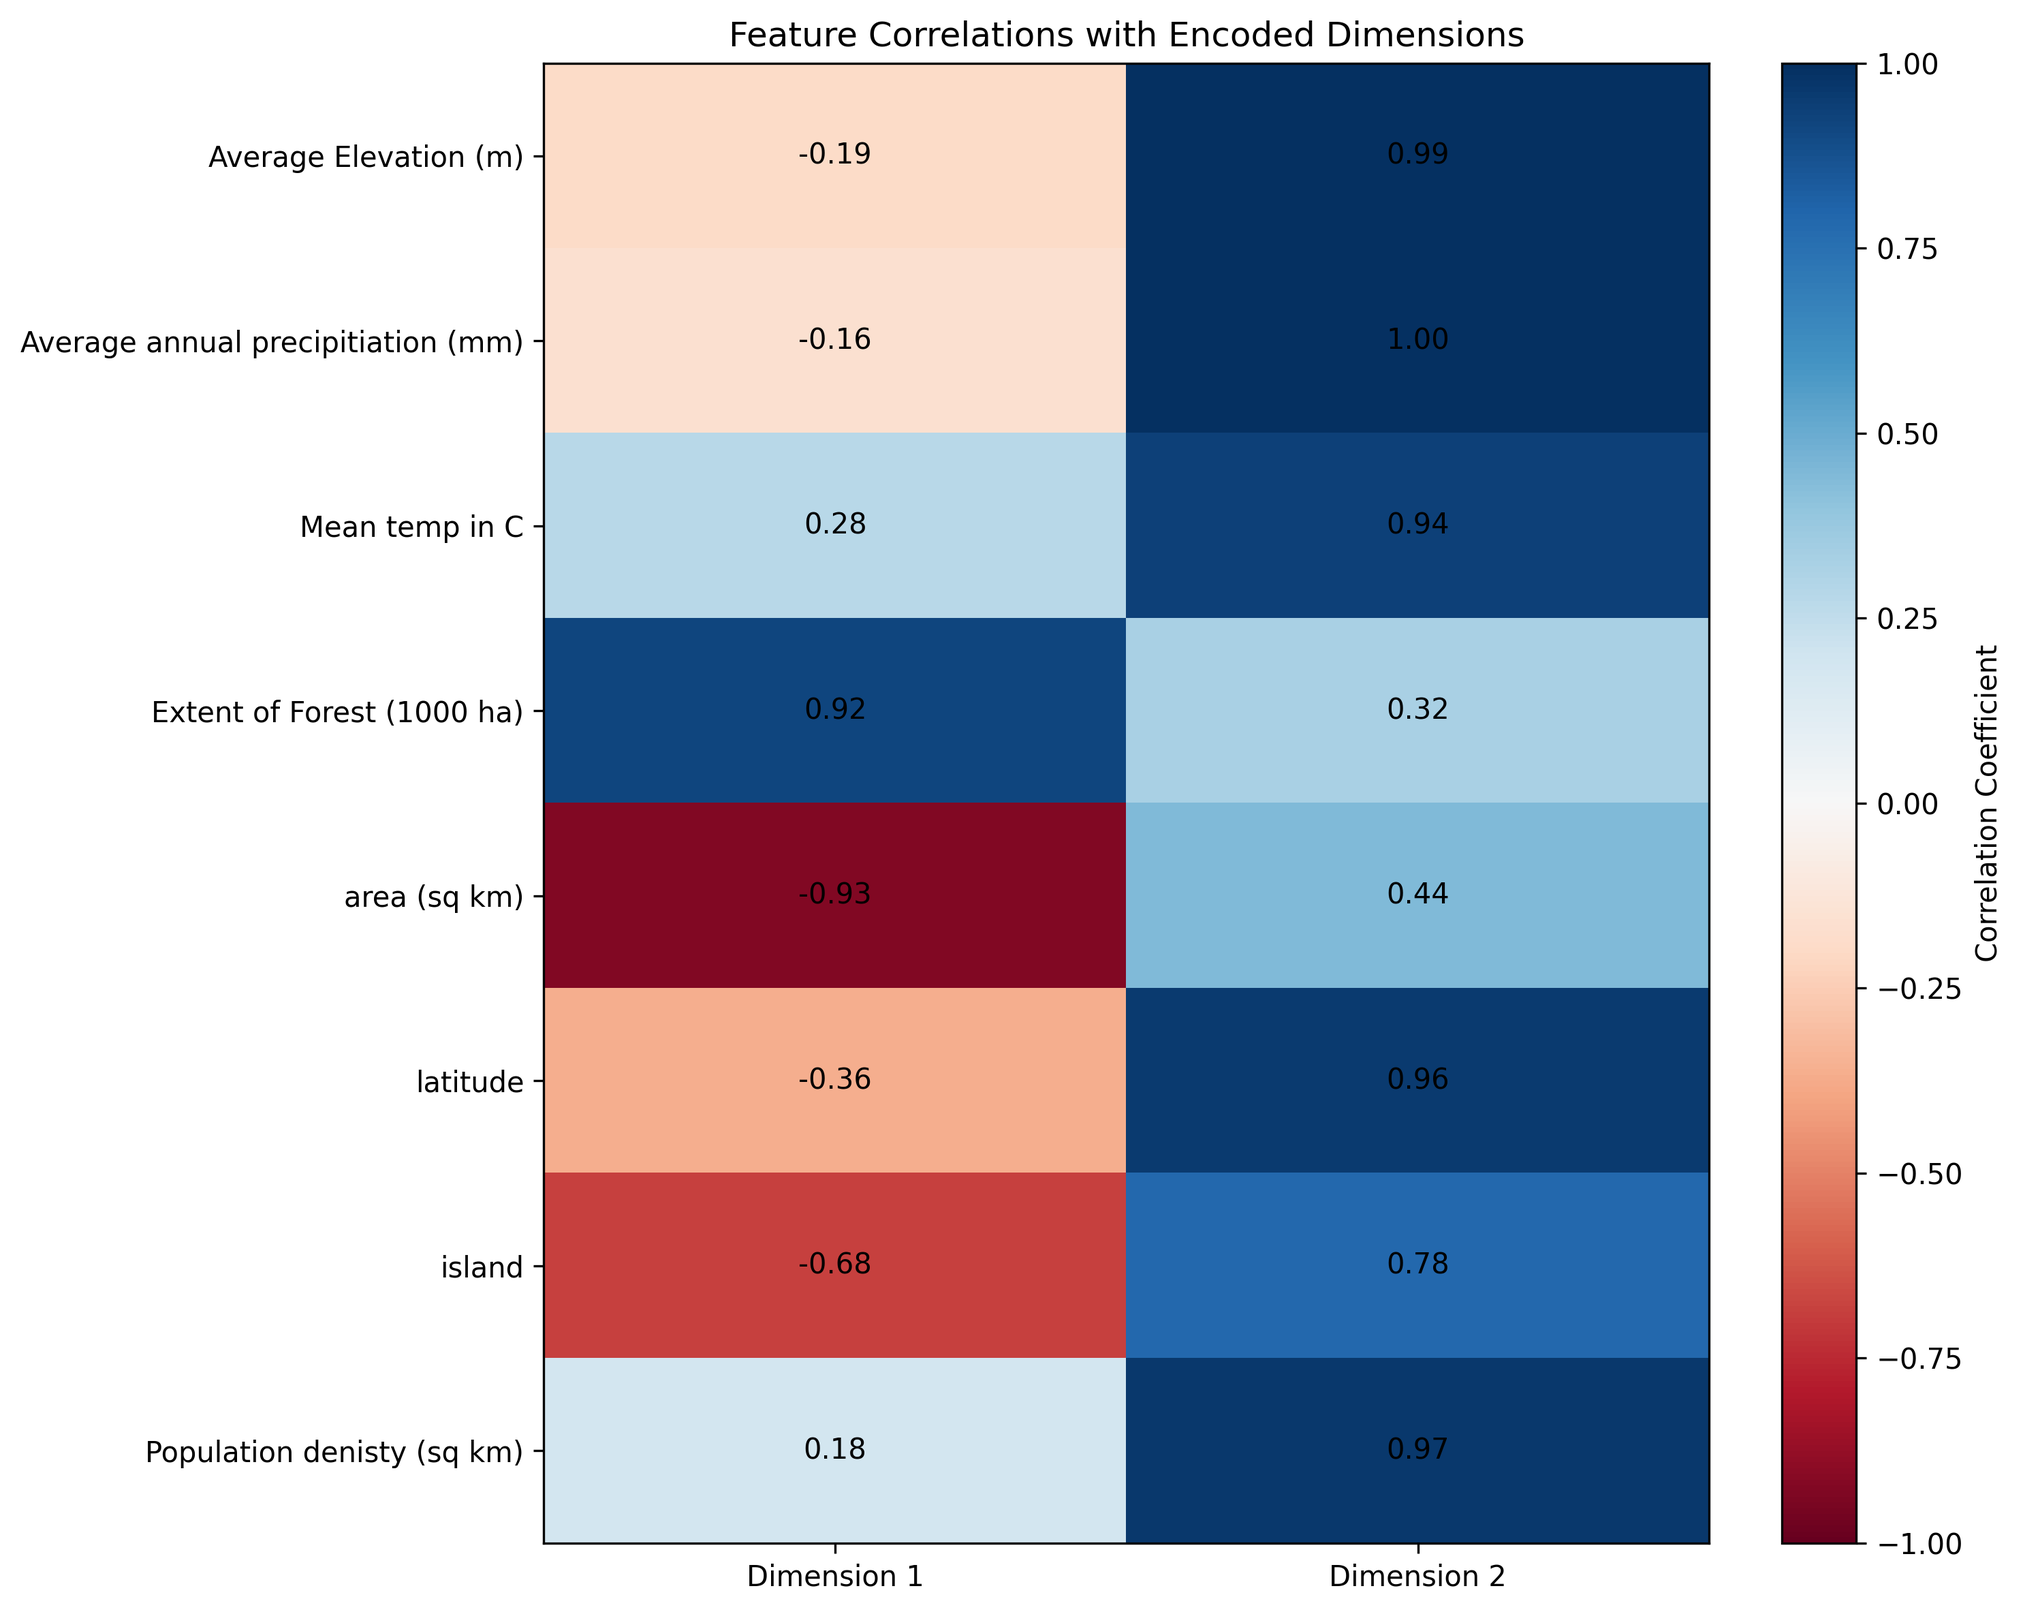
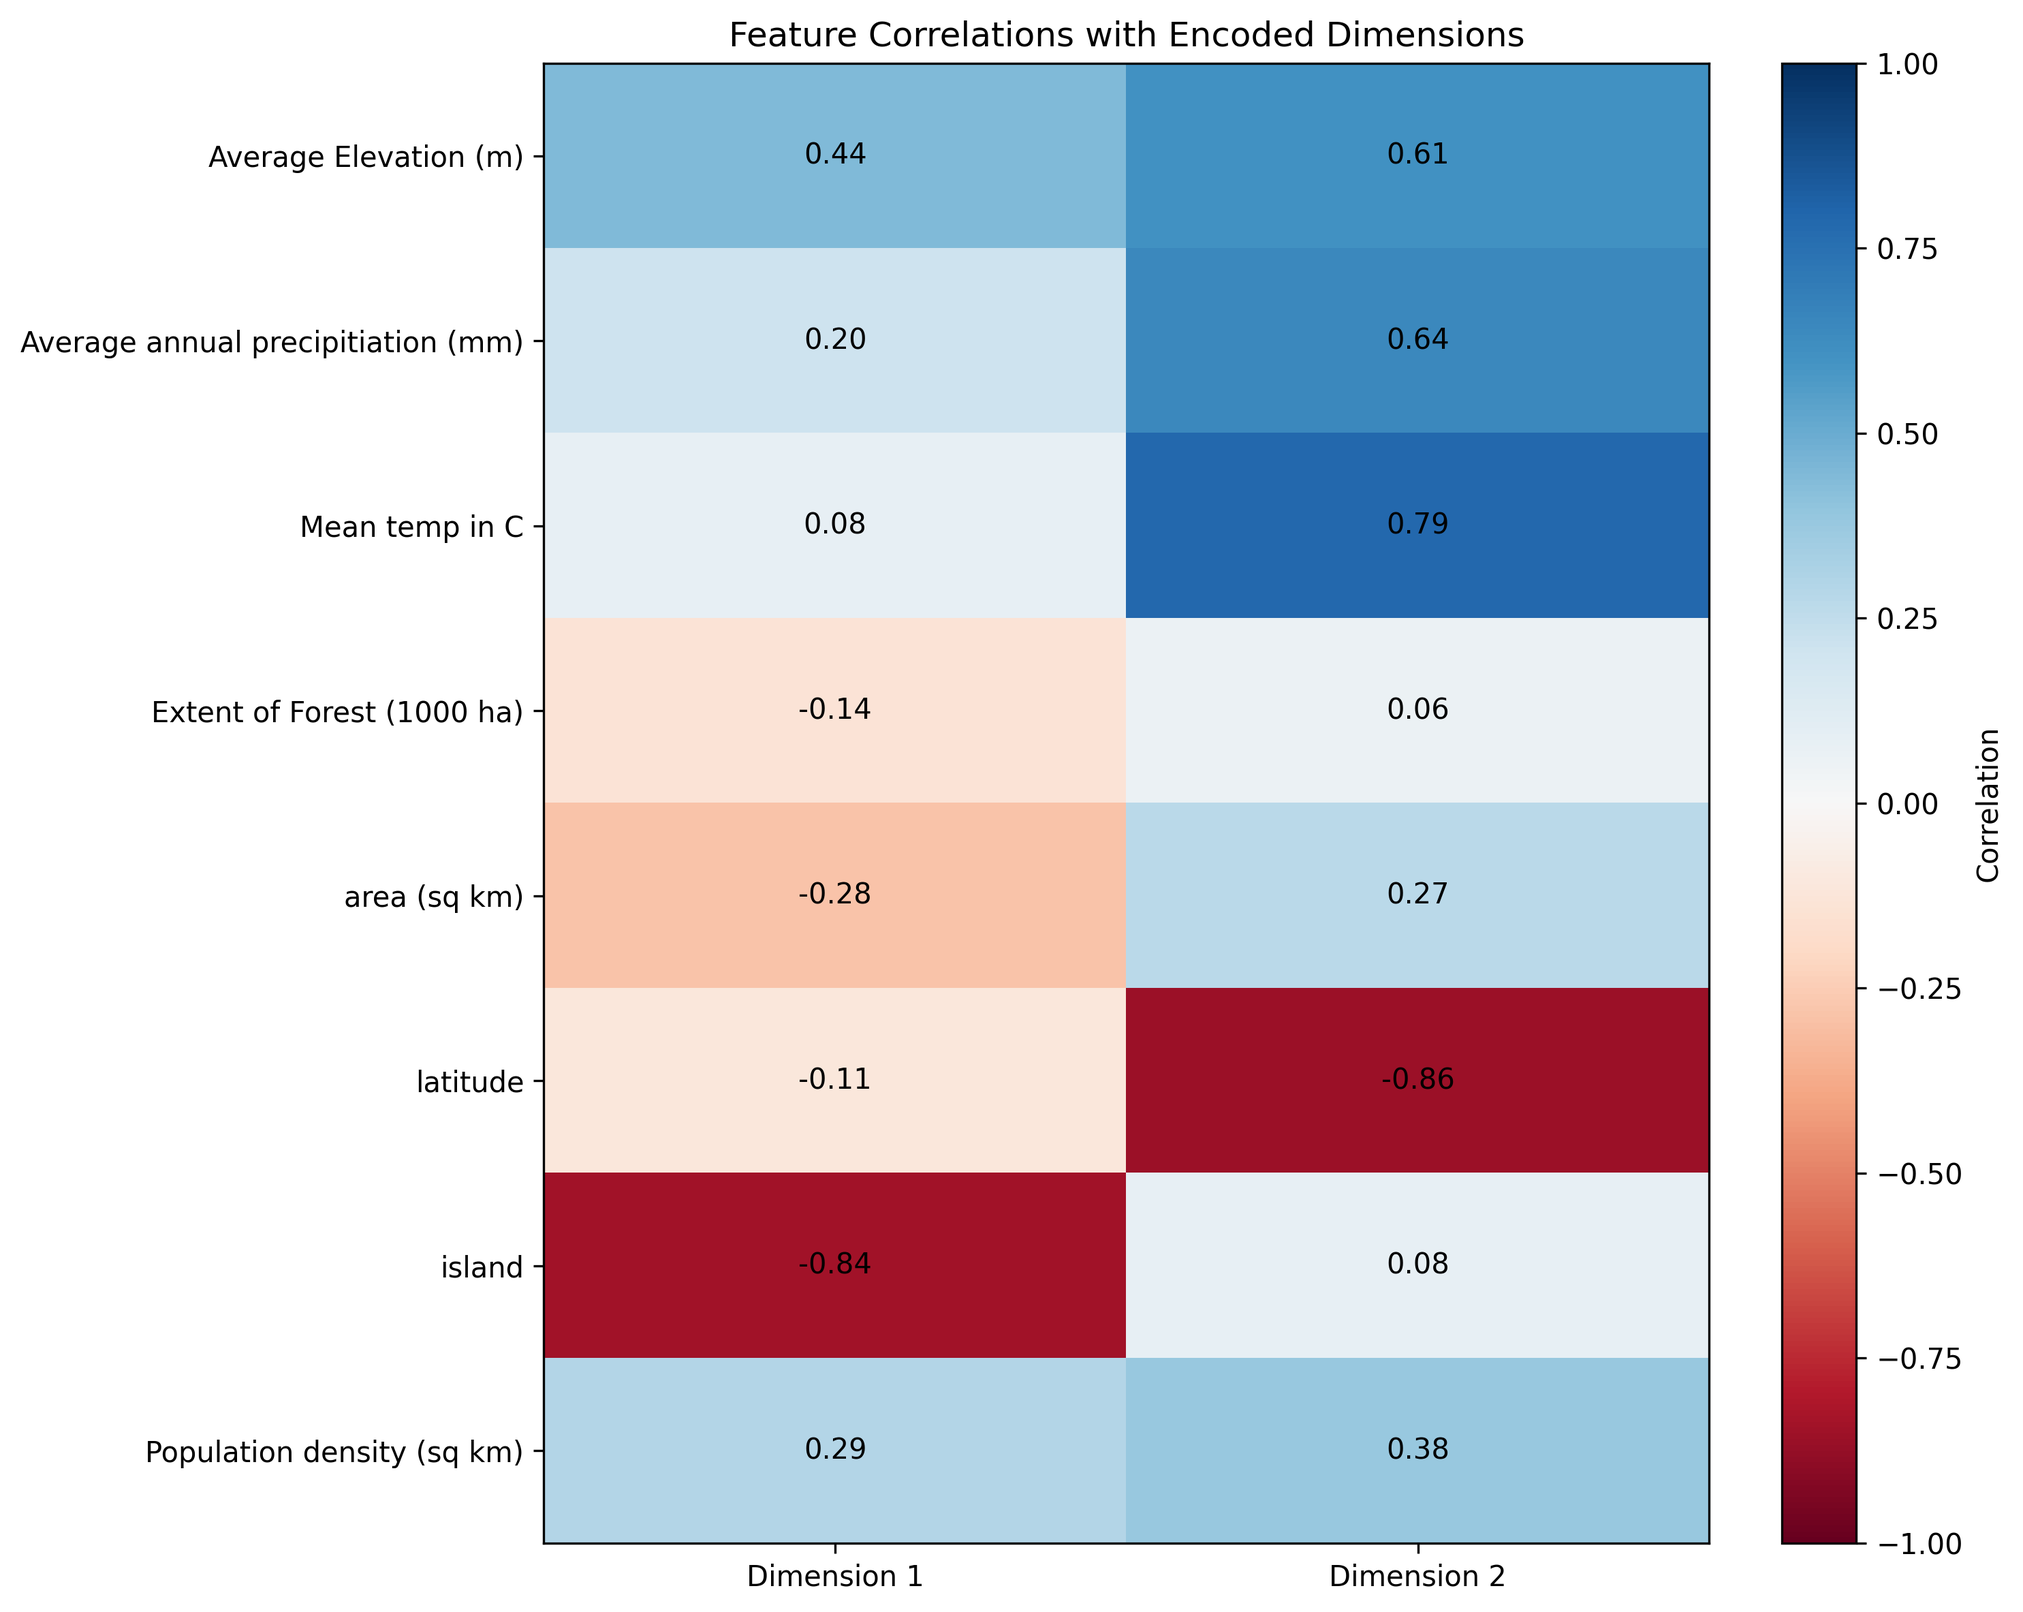
Final commit

diff --git a/visualisation script.py b/visualisation script.py
@@ -1,190 +1,181 @@
-import matplotlib.pyplot as plt
-import numpy as np
 import pickle
-import pandas as pd
+import numpy as np
+import matplotlib.pyplot as plt
 
-def load_data(filepath='autoencoder_results.pkl'):
-    """Load the autoencoder results and verify data structure."""
-    print("Loading data from pickle file...")
+
+def load_and_verify_data(filepath='autoencoder_results.pkl'):
+    """Load data and print key information for verification."""
     with open(filepath, 'rb') as f:
         data = pickle.load(f)
     
-    # Verify expected keys are present
-    expected_keys = ['history', 'features', 'encoded_features', 
-                    'reconstructed_data', 'species_richness']
-    missing_keys = [key for key in expected_keys if key not in data]
-    if missing_keys:
-        raise KeyError(f"Missing expected keys: {missing_keys}")
+    # Print data structure for verification
+    print("\nData structure verification:")
+    print(f"Number of features: {len(data['features'])}")
+    print(f"Encoded features shape: {data['encoded_features'].shape}")
+    print(f"Features available: {data['features']}")
     
-    print("Data loaded successfully!")
     return data
 
-def create_visualizations(data):
-    """Create comprehensive visualizations using minimal dependencies."""
-    plt.style.use('default')
+def create_correlation_matrix(data):
+    """Generate correlation matrix between original features and encoded dimensions."""
+    # Initialize correlation matrix
+    correlations = np.zeros((len(data['features']), 2))
     
-    # 1. Training Loss Evolution
-    plt.figure(figsize=(10, 6))
-    epochs = range(1, len(data['history']) + 1)
-    plt.plot(epochs, data['history'], 'b-', linewidth=2, label='Training Loss')
-    
-    # Add trend line
-    z = np.polyfit(epochs, data['history'], 1)
-    p = np.poly1d(z)
-    plt.plot(epochs, p(epochs), "r--", alpha=0.8, 
-             label=f'Trend (slope: {z[0]:.4f})')
-    
-    plt.title('Autoencoder Training Progress', fontsize=12)
-    plt.xlabel('Epoch', fontsize=10)
-    plt.ylabel('Loss', fontsize=10)
-    plt.grid(True, linestyle='--', alpha=0.7)
-    plt.legend(fontsize=9)
-    plt.tight_layout()
-    plt.savefig('loss_evolution.png', dpi=300, bbox_inches='tight')
-    plt.close()
-
-   # Replace the existing 2D visualization section with this:
-
-    # 3. Integrated 2D Visualization
-    plt.figure(figsize=(12, 8))
-    
-    # Create base scatter plot (always works with species richness)
-    scatter = plt.scatter(data['encoded_features'][:, 0], 
-                         data['encoded_features'][:, 1],
-                         c=data['species_richness'],
-                         cmap='viridis',
-                         alpha=0.7)
-    
-    plt.colorbar(scatter, label='Species Richness')
-    
-    # Add population density encoding if available
-    density_cols = [col for col in data['features'] if 'density' in col.lower()]
-    if density_cols:
-        # Update point sizes based on population density
-        pop_density_idx = data['features'].index(density_cols[0])
-        pop_density = data['reconstructed_data'][:, pop_density_idx]
-        plt.scatter(data['encoded_features'][:, 0], 
-                   data['encoded_features'][:, 1],
-                   c=data['species_richness'],
-                   s=np.log1p(pop_density) * 100,
-                   cmap='viridis',
-                   alpha=0.7)
+    # Calculate correlations for each feature with both encoded dimensions
+    for i, feature in enumerate(data['features']):
+        original_feature = data['analysis_df'][feature].values
+        correlations[i, 0] = np.corrcoef(original_feature, data['encoded_features'][:, 0])[0, 1]
+        correlations[i, 1] = np.corrcoef(original_feature, data['encoded_features'][:, 1])[0, 1]
         
-        # Add annotation for highest density
-        max_density_idx = np.argmax(pop_density)
-        plt.annotate('Highest Population Density',
-                    xy=(data['encoded_features'][max_density_idx, 0],
-                        data['encoded_features'][max_density_idx, 1]),
-                    xytext=(30, 30),
-                    textcoords='offset points',
-                    fontsize=9,
-                    arrowprops=dict(arrowstyle='->',
-                                   connectionstyle='arc3,rad=0.2'))
+        # Print correlations for verification
+        print(f"\n{feature}:")
+        print(f"  Dimension 1: {correlations[i, 0]:.4f}")
+        print(f"  Dimension 2: {correlations[i, 1]:.4f}")
     
-    # Always add highest species richness annotation
-    max_richness_idx = np.argmax(data['species_richness'])
-    plt.annotate('Highest Species Richness',
-                xy=(data['encoded_features'][max_richness_idx, 0],
-                    data['encoded_features'][max_richness_idx, 1]),
-                xytext=(-30, -30),
-                textcoords='offset points',
-                fontsize=9,
-                arrowprops=dict(arrowstyle='->',
-                               connectionstyle='arc3,rad=-0.2'))
-    
-    plt.xlabel('First Encoded Dimension', fontsize=10)
-    plt.ylabel('Second Encoded Dimension', fontsize=10)
-    plt.title('Ecological Patterns in Reduced Dimensional Space\n' +
-             'Color: Species Richness',
-             fontsize=12, pad=20)
-    plt.grid(True, linestyle='--', alpha=0.3)
-    
-    plt.tight_layout()
-    plt.savefig('2d_embedding.png', dpi=300, bbox_inches='tight')
-    plt.close()
+    return correlations
 
-    # 4. Feature Reconstruction Analysis
-    reconstructed_df = pd.DataFrame(data['reconstructed_data'], 
-                                  columns=data['features'])
-    
-    errors = []
-    for feature in data['features']:
-        error = np.mean((reconstructed_df[feature] - 
-                        reconstructed_df[feature].mean()) ** 2)
-        errors.append({'feature': feature, 'error': error})
-    
-    error_df = pd.DataFrame(errors)
-    error_df = error_df.sort_values('error', ascending=False)
-    
-    plt.figure(figsize=(12, 6))
-    bars = plt.bar(range(len(error_df)), error_df['error'], alpha=0.8)
-    
-    plt.xticks(range(len(error_df)), 
-               error_df['feature'], 
-               rotation=45, 
-               ha='right')
-    
-    # Add value labels on bars
-    for bar in bars:
-        height = bar.get_height()
-        plt.text(bar.get_x() + bar.get_width()/2., height,
-                f'{height:.3f}',
-                ha='center', va='bottom',
-                fontsize=8)
-    
-    plt.title('Feature Reconstruction Analysis', fontsize=12)
-    plt.ylabel('Mean Squared Error', fontsize=10)
-    plt.grid(True, axis='y', linestyle='--', alpha=0.7)
-    plt.tight_layout()
-    plt.savefig('reconstruction_analysis.png', dpi=300, bbox_inches='tight')
-    plt.close()
-
-    # 5. Correlation Matrix
+def plot_correlation_matrix(correlations, features):
+    """Create and save correlation matrix visualization."""
     plt.figure(figsize=(10, 8))
     
-    # Calculate correlations between encoded dimensions and features
-    correlations = []
-    for feature in data['features']:
-        feature_data = reconstructed_df[feature]
-        corr_dim1 = np.corrcoef(data['encoded_features'][:, 0], feature_data)[0,1]
-        corr_dim2 = np.corrcoef(data['encoded_features'][:, 1], feature_data)[0,1]
-        correlations.append([corr_dim1, corr_dim2])
-    
-    correlations = np.array(correlations)
-    
-    # Create correlation matrix plot
+    # Create heatmap
     im = plt.imshow(correlations, cmap='RdBu', aspect='auto', vmin=-1, vmax=1)
-    plt.colorbar(im, label='Correlation Coefficient')
+    plt.colorbar(im, label='Correlation')
     
-    # Add correlation values as text
-    for i in range(len(data['features'])):
+    # Add text annotations
+    for i in range(len(features)):
         for j in range(2):
             plt.text(j, i, f'{correlations[i,j]:.2f}', 
-                    ha='center', va='center', color='black')
+                    ha='center', va='center',
+                    color='black')
     
+    # Labels and formatting
     plt.xticks([0, 1], ['Dimension 1', 'Dimension 2'])
-    plt.yticks(range(len(data['features'])), data['features'], ha='right')
-    plt.title('Feature Correlations with Encoded Dimensions', fontsize=12)
+    plt.yticks(range(len(features)), features)
+    plt.title('Feature Correlations with Encoded Dimensions')
     
     plt.tight_layout()
     plt.savefig('correlation_matrix.png', dpi=300, bbox_inches='tight')
     plt.close()
 
-if __name__ == "__main__":
+
+def plot_training_history(data):
+    """Visualize training dynamics with confidence bands."""
+    train_loss = data['history']['train_loss']
+    val_loss = data['history']['val_loss']
+    epochs = range(1, len(train_loss) + 1)
+    
+    plt.figure(figsize=(10, 6))
+    
+    # Plot main loss curves
+    plt.plot(epochs, train_loss, 'b-', label='Training Loss', alpha=0.7)
+    plt.plot(epochs, val_loss, 'r-', label='Validation Loss', alpha=0.7)
+    
+    # Add trend line
+    z = np.polyfit(epochs, train_loss, 1)
+    trend = np.poly1d(z)
+    plt.plot(epochs, trend(epochs), 'k--', 
+             label=f'Trend (slope: {z[0]:.2e})', alpha=0.5)
+    
+    plt.title('Autoencoder Training Dynamics')
+    plt.xlabel('Epoch')
+    plt.ylabel('Loss')
+    plt.grid(True, alpha=0.3)
+    plt.legend()
+    plt.tight_layout()
+    
+    plt.savefig('training_dynamics.png', dpi=300, bbox_inches='tight')
+    plt.close()
+
+
+def plot_latent_space(data):
+    """Create a simplified visualization of the latent space focusing on key patterns."""
+    encoded_features = data['encoded_features']
+    
+    # Create figure with two subplots
+    fig, (ax1, ax2) = plt.subplots(1, 2, figsize=(15, 6))
+    
+    # 1. Species richness with island status
+    scatter1 = ax1.scatter(encoded_features[:,0], encoded_features[:,1],
+                          c=data['species_richness'], cmap='viridis',
+                          alpha=0.7)
+    # Add island/mainland markers
+    is_island = data['analysis_df']['island'] == 1
+    ax1.scatter(encoded_features[is_island,0], encoded_features[is_island,1],
+                facecolors='none', edgecolors='red', alpha=0.5)
+    
+    ax1.set_title('Species Richness Distribution\n(Red circles: Islands)')
+    ax1.set_xlabel('Dimension 1 (Island-Mainland)')
+    ax1.set_ylabel('Dimension 2 (Climate)')
+    plt.colorbar(scatter1, ax=ax1, label='Number of Species')
+    
+    # 2. Temperature gradient
+    scatter2 = ax2.scatter(encoded_features[:,0], encoded_features[:,1],
+                          c=data['analysis_df']['Mean temp in C'],
+                          cmap='RdBu_r', alpha=0.7)
+    ax2.set_title('Temperature Distribution')
+    ax2.set_xlabel('Dimension 1 (Island-Mainland)')
+    ax2.set_ylabel('Dimension 2 (Climate)')
+    plt.colorbar(scatter2, ax=ax2, label='Mean Temperature (°C)')
+    
+    plt.tight_layout()
+    plt.savefig('latent_space_simplified.png', dpi=300, bbox_inches='tight')
+    plt.close()
+
+def plot_reconstruction_quality(data):
+    """Visualize reconstruction quality for key ecological features."""
+    fig, ax = plt.subplots(figsize=(10, 6))
+    
+    # Calculate reconstruction error for each feature
+    features = data['features']
+    reconstructed = data['reconstructed_data']
+    original = data['analysis_df'][features].values
+    
+    errors = np.mean((original - reconstructed)**2, axis=0)
+    
+    # Sort features by reconstruction error
+    sorted_idx = np.argsort(errors)
+    sorted_features = [features[i] for i in sorted_idx]
+    sorted_errors = errors[sorted_idx]
+    
+    # Create bar plot
+    bars = ax.barh(range(len(features)), sorted_errors)
+    ax.set_yticks(range(len(features)))
+    ax.set_yticklabels(sorted_features)
+    ax.set_xlabel('Mean Squared Reconstruction Error')
+    ax.set_title('Feature Reconstruction Quality')
+    
+    plt.tight_layout()
+    plt.savefig('reconstruction_quality.png', dpi=300, bbox_inches='tight')
+    plt.close()
+
+def main():
     try:
-        print("\nStarting visualization process...")
-        data = load_data()
+        print("Loading autoencoder results...")
+        data = load_and_verify_data()
         
-        print("\nCreating visualizations...")
-        create_visualizations(data)
+        print("\nGenerating visualizations...")
         
-        print("\nVisualizations created successfully!")
-        print("Generated files:")
-        print("- loss_evolution.png")
-        print("- population_patterns.png")
-        print("- integrated_patterns.png")
-        print("- reconstruction_analysis.png")
+        # Create correlation matrix
+        print("1. Calculating feature correlations...")
+        correlations = create_correlation_matrix(data)
+        plot_correlation_matrix(correlations, data['features'])
+        
+        # Add training dynamics plot
+        print("2. Creating training dynamics visualization...")
+        plot_training_history(data)
+
+        plot_latent_space(data)
+
+        plot_reconstruction_quality(data)
+        
+        print("\nVisualization complete! Generated files:")
+        print("- correlation_matrix.png")
+        print("- training_dynamics.png")
         
     except Exception as e:
         print(f"\nError occurred: {str(e)}")
-        print("Please check your data structure and column names.")
+        print("Please verify data structure and file availability.")
+
+if __name__ == "__main__":
+    main()

diff --git a/butterfly_analysis.py b/butterfly_analysis.py
@@ -72,7 +72,7 @@ class SimpleAutoencoder:
         val_size = int(val_fraction * n_samples)
         return X[indices[val_size:]], X[indices[:val_size]]
     
-    def train(self, X, epochs=100, batch_size=32, verbose=True, val_fraction=0.2):
+    def train(self, X, epochs=200, batch_size=32, verbose=True, val_fraction=0.2):
         """Train the autoencoder with integrated early stopping"""
         if verbose:
             print(f"\nTraining on {len(X)} samples ({int((1-val_fraction)*len(X))} train, {int(val_fraction*len(X))} validation)")
@@ -81,7 +81,7 @@ class SimpleAutoencoder:
         n_samples = X_train.shape[0]
         history = {'train_loss': [], 'val_loss': []}
         best_val_loss = float('inf')
-        patience, patience_counter = 5, 0
+        patience, patience_counter = 8, 0
         min_delta = 0.001
         
         for epoch in range(epochs):
@@ -182,7 +182,7 @@ def main():
     
     # Train autoencoder
     autoencoder = SimpleAutoencoder(len(features), 2, learning_rate=0.01)
-    history = autoencoder.train(X_normalized, epochs=100, batch_size=8, verbose=True)
+    history = autoencoder.train(X_normalized, epochs=500, batch_size=8, verbose=True)
     
     # Analyze and save results
     encoded_features, reconstructed_data, analysis_df = analyze_results(autoencoder, X_normalized, df, features)
